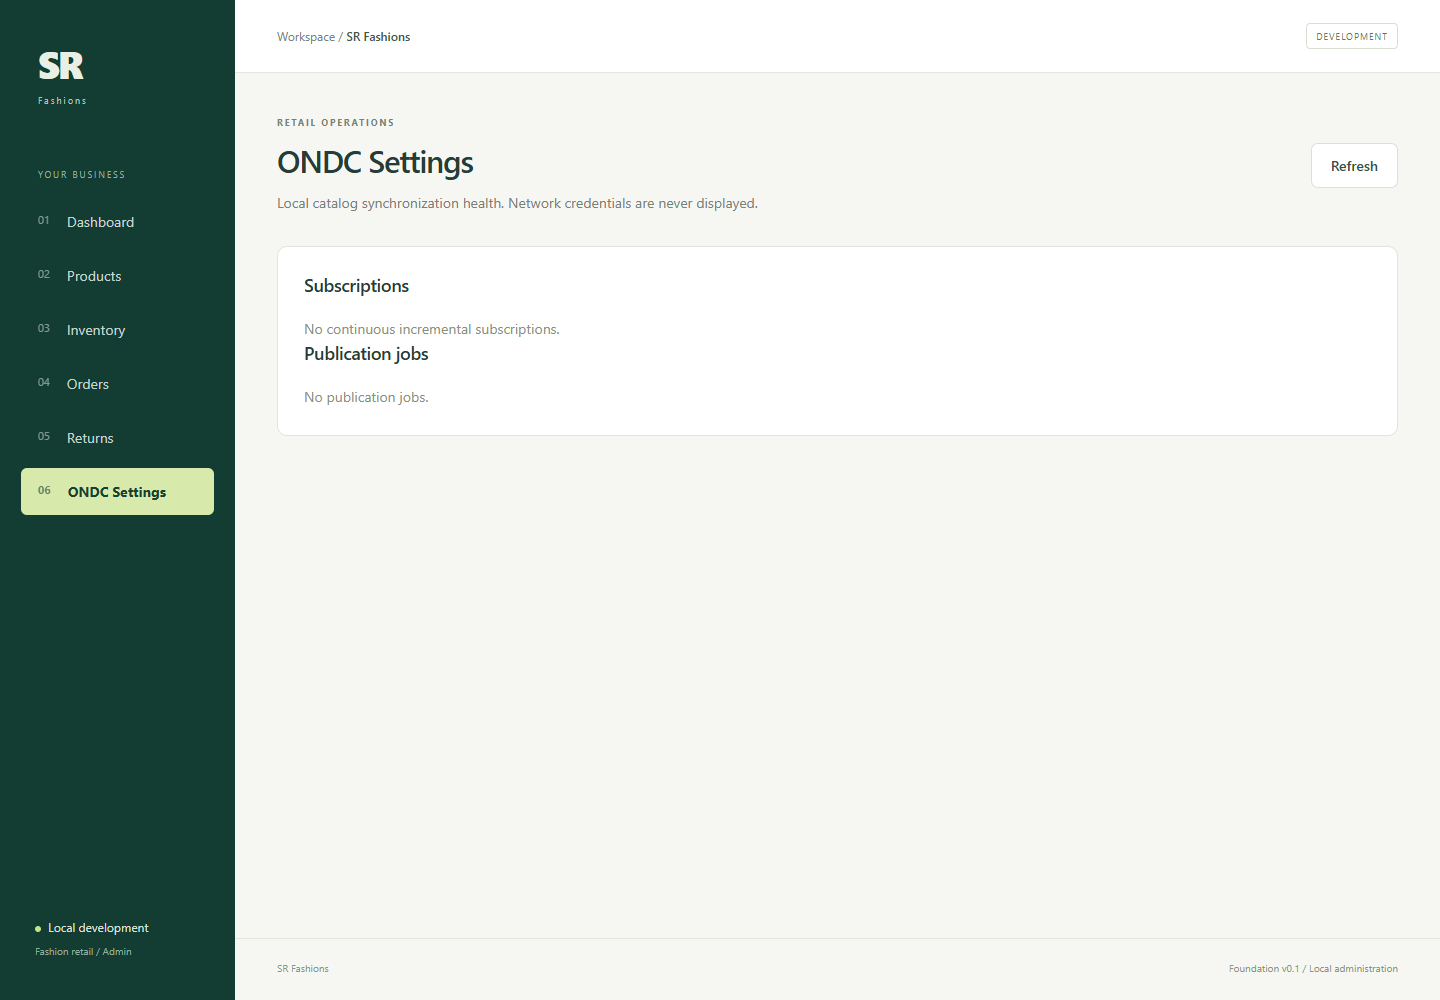
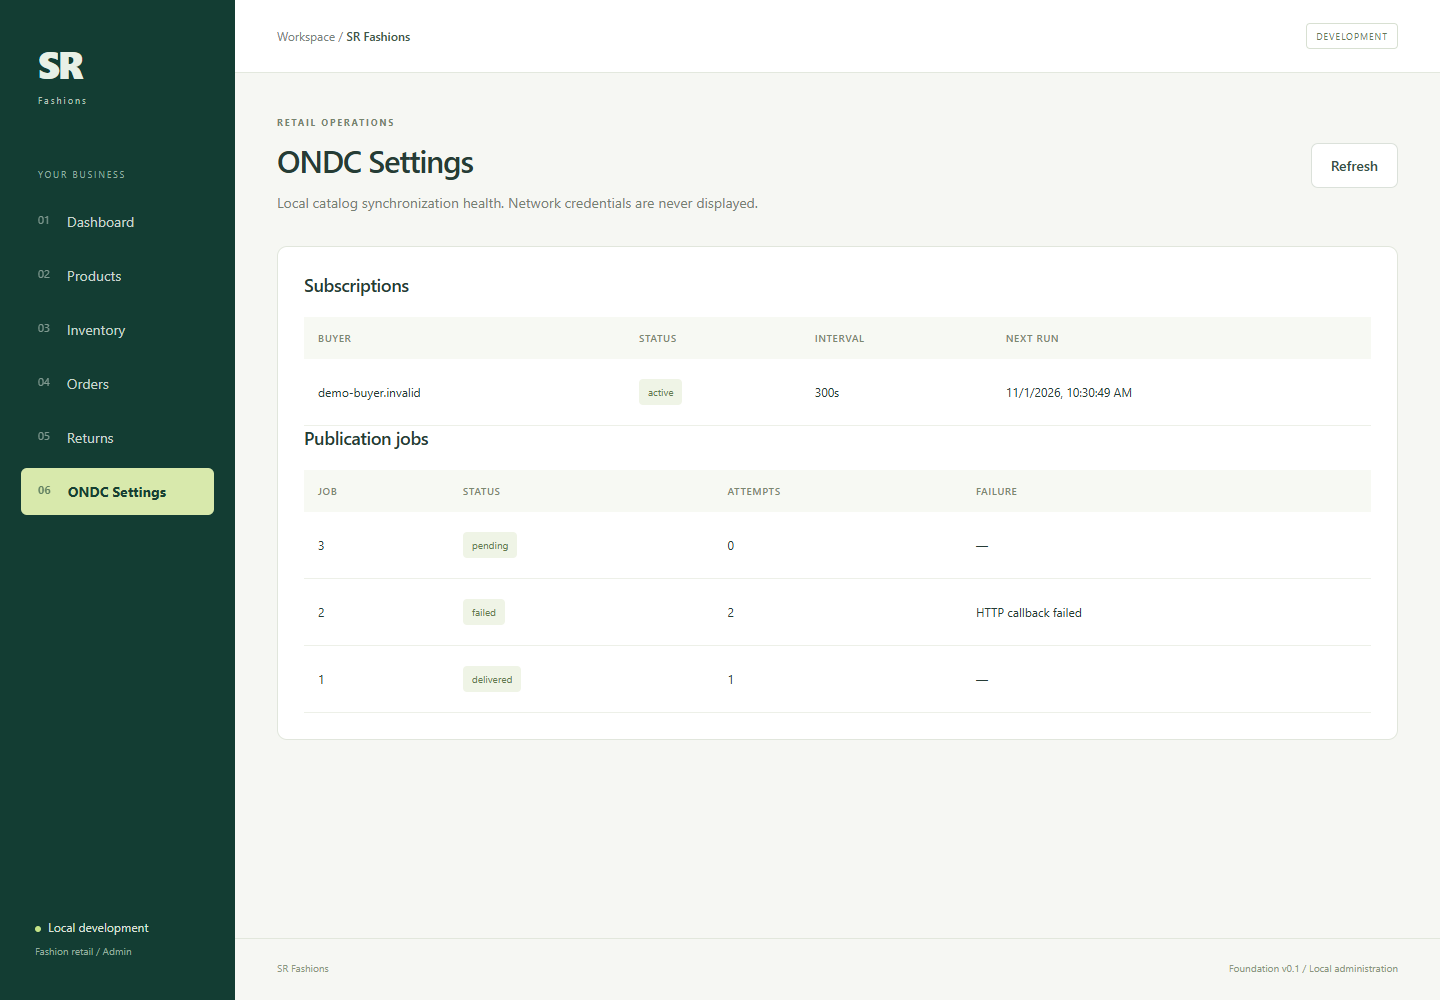
feat: populate returns and ONDC monitoring demos
Add a real cross-order Returns screen, seed active catalog synchronization with delivered, failed, and pending jobs, refresh screenshots and documentation, and preserve microsecond scheduler boundaries to eliminate same-millisecond catalog omissions.

diff --git a/frontend/src/pages/Returns.jsx b/frontend/src/pages/Returns.jsx
@@ -1,0 +1,22 @@
+import {Link} from 'react-router-dom';
+import {listAll} from '../api/client';
+import {ErrorBox, PageHeader, useLoad} from '../components/Common';
+
+const load = async () => {
+  const orders = await listAll('/api/ondc/orders');
+  return orders.flatMap(order => order.returns.map(item => ({...item, order_id: order.id})));
+};
+
+export default function Returns() {
+  const {data: loadedData, loading, error, reload} = useLoad(load);
+  const data = loadedData || [];
+  return <><PageHeader title="Returns" action={<button className="secondary" onClick={reload}>Refresh</button>}>
+    Supported ONDC return requests across confirmed orders. Decisions remain attached to the order audit trail.
+  </PageHeader><ErrorBox>{error}</ErrorBox><section className="panel">
+    <div className="table-toolbar"><h2>Return requests <span className="count">{data.length}</span></h2><Link className="button secondary" to="/orders">Open orders</Link></div>
+    {loading ? <p role="status">Loading return requests...</p> : data.length ? <div className="table-wrap"><table><thead><tr><th>Request</th><th>Order</th><th>Item</th><th>Qty</th><th>Reason</th><th>Status</th><th>Requested</th></tr></thead><tbody>
+      {data.map(item => <tr key={`${item.order_id}-${item.request_id}`}><td><strong>{item.request_id}</strong></td><td>{item.order_id}</td><td>{item.item_id}</td><td>{item.quantity}</td><td>{item.reason_id}</td><td><span className="badge">{item.state.replaceAll('_', ' ')}</span></td><td>{new Date(item.requested_at * 1000).toLocaleString()}</td></tr>)}
+    </tbody></table></div> : <div className="empty"><h2>No return requests</h2><p>Eligible Buyer return updates appear here after a delivered ONDC order.</p></div>}
+    <p className="help">Approve or reject an initiated request from its expanded order after entering the backend admin token.</p>
+  </section></>;
+}

diff --git a/frontend/src/main.jsx b/frontend/src/main.jsx
@@ -8,6 +8,6 @@ import AddProduct from './pages/AddProduct';
 import Inventory from './pages/Inventory';
 import Orders from './pages/Orders';
 import OndcSettings from './pages/OndcSettings';
-import Placeholder from './pages/Placeholder';
+import Returns from './pages/Returns';
 import './styles.css';
-ReactDOM.createRoot(document.getElementById('root')).render(<React.StrictMode><BrowserRouter><Routes><Route element={<AdminLayout/>}><Route index element={<Dashboard/>}/><Route path="products" element={<Products/>}/><Route path="products/new" element={<AddProduct/>}/><Route path="inventory" element={<Inventory/>}/><Route path="orders" element={<Orders/>}/><Route path="returns" element={<Placeholder title="Returns" description="Return requests are managed from each ONDC order."/>}/><Route path="ondc-settings" element={<OndcSettings/>}/><Route path="*" element={<section className="panel"><h1>Page not found</h1><Link to="/">Back to dashboard</Link></section>}/></Route></Routes></BrowserRouter></React.StrictMode>);
+ReactDOM.createRoot(document.getElementById('root')).render(<React.StrictMode><BrowserRouter><Routes><Route element={<AdminLayout/>}><Route index element={<Dashboard/>}/><Route path="products" element={<Products/>}/><Route path="products/new" element={<AddProduct/>}/><Route path="inventory" element={<Inventory/>}/><Route path="orders" element={<Orders/>}/><Route path="returns" element={<Returns/>}/><Route path="ondc-settings" element={<OndcSettings/>}/><Route path="*" element={<section className="panel"><h1>Page not found</h1><Link to="/">Back to dashboard</Link></section>}/></Route></Routes></BrowserRouter></React.StrictMode>);

diff --git a/scripts/seed_demo_order.py b/scripts/seed_demo_order.py
@@ -16,7 +16,7 @@ from app.database import get_engine
 from app.models import Inventory, ProductVariant
 from app.ondc.models import (
     CheckoutIntent, FinancialEvent, ONDCOrder, ONDCOrderItem,
-    OrderStateEvent, ReturnRequest,
+    OrderStateEvent, ReturnRequest, CatalogSubscription, CatalogPublicationJob,
 )
 
 ORDER_ID = "DEMO-ONDC-ORDER-001"
@@ -24,6 +24,37 @@ TRANSACTION_ID = "demo-ondc-transaction-001"
 SKU = "SR-SHIRT-BLUE-M"
 
 with Session(get_engine()) as db:
+    sync_transaction = "demo-catalog-subscription-001"
+    subscription = db.scalar(select(CatalogSubscription).where(
+        CatalogSubscription.bap_id == "demo-buyer.invalid",
+        CatalogSubscription.transaction_id == sync_transaction,
+    ))
+    if subscription is None:
+        sync_now = time.time()
+        subscription = CatalogSubscription(
+            bap_id="demo-buyer.invalid", bap_uri="https://demo-buyer.invalid/ondc",
+            transaction_id=sync_transaction, status="active", interval_seconds=300,
+            cursor_at=sync_now - 900, next_run_at=sync_now + 300,
+            created_at=sync_now - 1800, updated_at=sync_now,
+        )
+        db.add(subscription)
+        db.flush()
+        for offset, status, attempts, error in [
+            (-900, "delivered", 1, None),
+            (-600, "failed", 2, "HTTP callback failed"),
+            (-300, "pending", 0, None),
+        ]:
+            db.add(CatalogPublicationJob(
+                subscription_id=subscription.id, window_start=sync_now + offset,
+                window_end=sync_now + offset + 300, status=status, attempts=attempts,
+                lease_until=0, next_attempt_at=sync_now + (60 if status == "failed" else 0),
+                error=error, created_at=sync_now + offset + 300,
+            ))
+        db.commit()
+        print("CREATED synthetic catalog subscription with delivered, failed and pending jobs")
+    else:
+        print("SKIP existing synthetic catalog subscription")
+
     existing = db.get(ONDCOrder, ORDER_ID)
     if existing:
         print(f"SKIP existing synthetic demo order: {ORDER_ID}")

diff --git a/backend/app/ondc/catalog/scheduler.py b/backend/app/ondc/catalog/scheduler.py
@@ -9,7 +9,9 @@ from app.ondc.validators.discovery import validate_search
 from app.ondc.clients.http import CallbackError
 
 def iso(value):
-    return datetime.fromtimestamp(value, timezone.utc).isoformat(timespec="milliseconds").replace("+00:00", "Z")
+    # Preserve the persisted window boundary. Millisecond truncation could exclude a
+    # catalog mutation occurring later in the same millisecond and mark the job empty.
+    return datetime.fromtimestamp(value, timezone.utc).isoformat(timespec="microseconds").replace("+00:00", "Z")
 
 def schedule_due(db, now=None):
     now = now or time.time()

diff --git a/README.md b/README.md
@@ -75,22 +75,22 @@ authenticated ONDC purchase flow.
 
 ![Expanded synthetic order showing item, fulfillment history, financial audit and approved return](docs/screenshots/orders.png)
 
-### 6. Returns workflow boundary
+### 6. Review return requests
 
-The separate **Returns** route currently explains that it is planned. Supported RET12
-return initiation and authenticated approve/reject decisions are implemented inside the
-relevant confirmed order on the Orders page. Reverse pickup, QC, liquidation, replacement
-and actual refund execution remain explicitly unsupported until their governing profiles
-are verified and implemented.
+The **Returns** screen provides a cross-order view of request ID, order, item, quantity,
+reason, status and request time. Open the related order for its full audit trail and for
+authenticated approve/reject decisions on initiated requests. The demo record shows an
+approved reason `003` return. Reverse pickup, QC, liquidation, replacement and actual
+refund execution remain explicitly unsupported until their profiles are implemented.
 
-![Returns page documenting that standalone return management is planned](docs/screenshots/returns.png)
+![Returns page showing an approved sample request and its related order and item](docs/screenshots/returns.png)
 
 ### 7. Monitor ONDC catalog synchronization
 
 Choose **ONDC Settings** to inspect durable incremental subscriptions and publication
-jobs. Active or failed work appears here after a valid catalog incremental request and
-the scheduler persists it. The sample screen is empty because no external Buyer App or
-Registry was contacted while preparing this public repository.
+jobs. The synthetic demonstration shows an active buyer subscription plus pending,
+failed/retrying and delivered jobs, including attempt counts and a safe failure summary.
+The `.invalid` buyer makes clear that no external Buyer App or Registry was contacted.
 
 ![ONDC Settings page showing catalog subscription and publication-job status](docs/screenshots/ondc-settings.png)
 

diff --git a/docs/END_TO_END_DEMO.md b/docs/END_TO_END_DEMO.md
@@ -101,10 +101,11 @@ pre-pickup eligibility, restores stock once under a database lock, and records a
 obligation rather than claiming a completed refund. Supported delivered-item return
 initiation validates reason `003`, purchased quantity, catalog eligibility and window.
 
-The standalone Returns page remains a transparent roadmap boundary; implemented return
-actions are attached to each order.
+The Returns page aggregates persisted requests across orders. An operator can open the
+related order for the complete history and authenticated decisions; this keeps the
+decision in its order context while still providing an operational queue.
 
-![Standalone returns boundary](screenshots/returns.png)
+![Returns queue with approved demonstration request](screenshots/returns.png)
 
 ## 6. Catalog synchronization and recovery
 
@@ -115,8 +116,9 @@ covered by automated tests.
 
 ![Catalog synchronization status](screenshots/ondc-settings.png)
 
-An empty screen means no external subscription has been accepted in this local database;
-it does not mean the scheduler code is absent.
+The seeded `.invalid` buyer demonstrates an active subscription and delivered, failed and
+pending job states without contacting an external participant. Failure text is sanitized
+and the attempts column makes retry behavior observable.
 
 ## 7. Registry onboarding readiness
 
